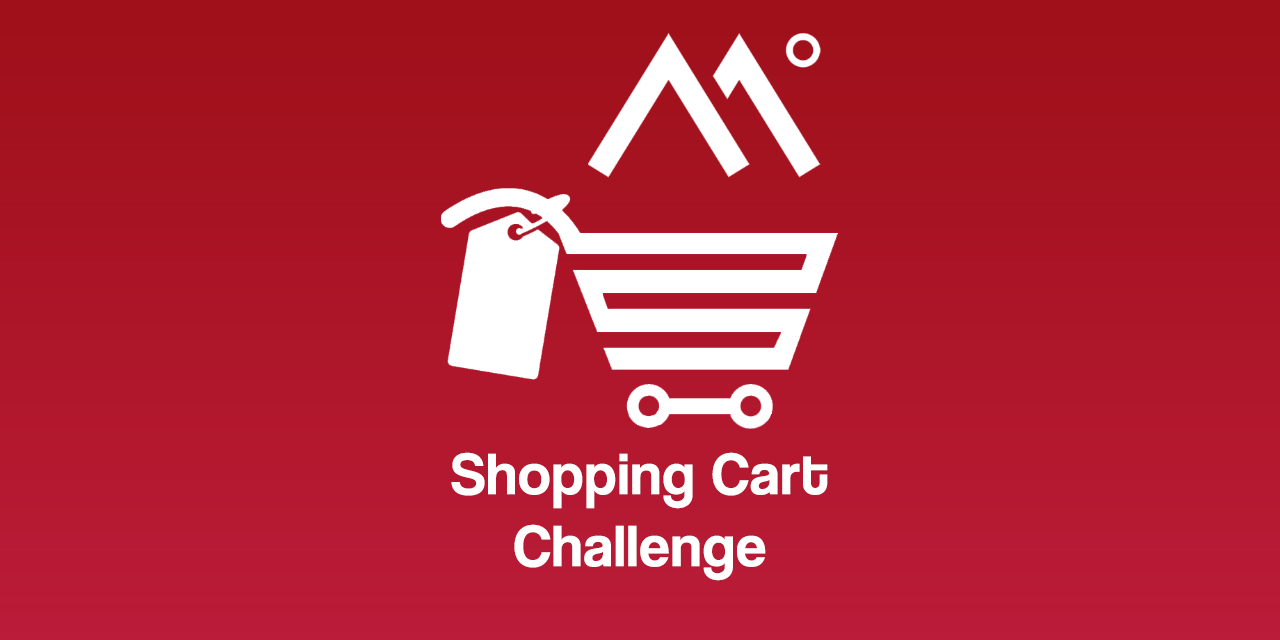
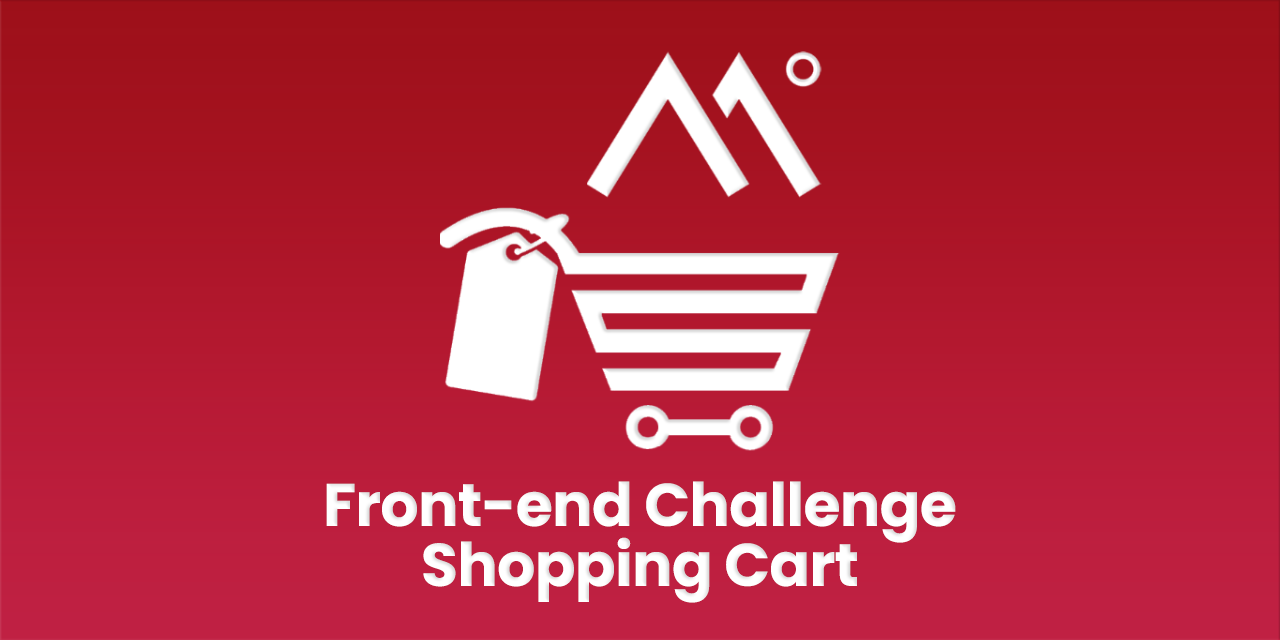
Updates readme and index.html

Changed region(s): [[0.25, 0.0312, 0.75, 0.9375], [0.3438, 0.5625, 0.4375, 0.625]]

diff --git a/public/index.html b/public/index.html
@@ -28,8 +28,8 @@
     <meta name="designer" content="Leonardo Ronne" />
     <meta name="copyright" content="Leonardo Ronne" />
 
-    <meta name="url" content="https://square.frontend-challenge.ronne.dev" />
-    <meta name="identifier-URL" content="https://square.frontend-challenge.ronne.dev" />
+    <meta name="url" content="https://shopping-cart.frontend-challenge.ronne.dev" />
+    <meta name="identifier-URL" content="https://shopping-cart.frontend-challenge.ronne.dev" />
 
     <meta name="robots" content="index,follow" />
     <meta name="googlebot" content="index,follow" />

diff --git a/README.md b/README.md
@@ -1,5 +1,5 @@
 <p align="center">
-  <img src="/src/assets/img/logo.png" width="300px"/>
+  <img src="/src/assets/img/transparentBanner.png" width="50%"/>
 </p>
 
 <h1 align="center">
@@ -16,6 +16,7 @@
   <a href="#project-star2">Project</a>&nbsp;&nbsp;&nbsp;|&nbsp;&nbsp;&nbsp;
   <a href="#techs-rocket">Techs</a>&nbsp;&nbsp;&nbsp;|&nbsp;&nbsp;&nbsp;
   <a href="#installation-wrench">Installation</a>&nbsp;&nbsp;&nbsp;|&nbsp;&nbsp;&nbsp;
+  <a href="#start-on">Start</a>&nbsp;&nbsp;&nbsp;|&nbsp;&nbsp;&nbsp;
   <a href="#test-heavy_check_mark">Test</a>&nbsp;&nbsp;&nbsp;|&nbsp;&nbsp;&nbsp;
   <a href="#contributing-">Contributing</a>&nbsp;&nbsp;&nbsp;|&nbsp;&nbsp;&nbsp;
   <a href="#license-memo">License</a>
@@ -25,11 +26,11 @@
 
 ## Project :star2:
 
-This repo contains a challenge for a Frontend Developer position at Codeminer42, based on the [guide](https://gist.github.com/sobrinho/2f8d633aab22e3ad6ffa0b9d19b5a131).
+This repo contains a challenge for a Front-end Developer position at Codeminer42, based on the [guide](https://gist.github.com/sobrinho/2f8d633aab22e3ad6ffa0b9d19b5a131).
 
 <br>
 
-Deployed [here](https://shopping-cart-front.web.app/) and [here](https://shoppint-cart-challenge.netlify.app/).
+Deployed [here](https://shopping-cart.frontend-challenge.ronne.dev).
 
 <br>
 
@@ -43,17 +44,25 @@ Deployed [here](https://shopping-cart-front.web.app/) and [here](https://shoppin
 
 ## Installation :wrench:
 
+First you need to clone the project using `git clone https://github.com/leoronne/shopping-cart.git`.
+
 You can install the application using `npm install` or `yarn install` on the root dir.
 
 <br>
 
-## Test :heavy_check_mark:
+## Start :on:
 
 To start the application interface just run `npm start` or `yarn start` on the root dir.
 
 <br>
 
 <strong>Note: you need to create a .env file on the root directory based on the [example file](https://github.com/leoronne/shopping-cart/blob/master/.env.example).
+
+<br>
+
+## Test :heavy_check_mark:
+
+To run the tests of this application, just run `npm run test:cover` or `yarn test:cover` on the client directory, it will generate a coverage report on the same dir.
 
 <br>
 
